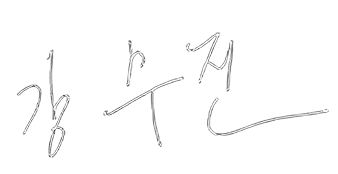
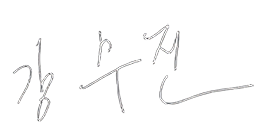
poster 작업 중

diff --git a/sub1.html b/sub1.html
@@ -49,8 +49,11 @@
                                 <p class="content">안녕하세요. 1962년 국립극장에서 창단된 국립발레단은 2022년, 60주년을 맞이하였습니다.</p>
                                 <p class="content">‘나이가 든다는 것은 등산하는 것과 같다. 오르면 오를수록 더 지치고 숨차지만 당신의 시야는 더 넓어진다.' 잉마르 베리만의 말입니다.</p>
                                 <p class="content">이렇듯 국립발레단은 해가 지날수록 국민들의 행복의 가치가 올라갈 수 있는 길이 무엇인가를 찾기 위하여 끊임없이 노력하고 있습니다.</p>
-                                <p class="content">초심의 마음으로 변함없는 열정으로 여러분과 함께 하는 국립발레단이 되겠습니다. 2022년도 국립발레단으로 인하여 행복하시기를 바랍니다.</p>
-                                <p class="content">감사합니다.</p>
+                                <p class="content">
+                                    초심의 마음으로 변함없는 열정으로 여러분과 함께 하는 국립발레단이 되겠습니다. 2022년도 국립발레단으로 인하여 행복하시기를 바랍니다.
+                                    <br>
+                                    감사합니다.
+                                </p>
                             </div>
                         </div>
                         <div class="profile-wrap">
@@ -83,20 +86,20 @@
                             </p>
                         </div>
                         <div class="goto">
-                            <a href="#">
+                            <a href="#" class="goto-a">
                                 더보기
                             </a>
                         </div>
                     </div>
                     <ul class="posters">
-                        <li>
+                        <li class="poster-list">
                             <img src="./images/sub1/work/poster1.jpg" alt="백조의 호수">
                             <img src="./images/sub1/work/poster2.jpg" alt="호두까기인형">
                             <img src="./images/sub1/work/poster3.jpg" alt="라 바야데르">
                             <img src="./images/sub1/work/poster4.jpg" alt="지젤">
                             <img src="./images/sub1/work/poster5.jpg" alt="돈키호테">
                         </li>
-                        <li>
+                        <li class="posters-list">
                             <img src="./images/sub1/work/poster6.jpg" alt="해적">
                             <img src="./images/sub1/work/poster7.jpg" alt="고집쟁이 딸">
                             <img src="./images/sub1/work/poster8.jpg" alt="잠자는 숲속의 미녀">

diff --git a/assets/scss/_sub1.scss b/assets/scss/_sub1.scss
@@ -70,8 +70,52 @@
         }
         .sign-img {
             position: absolute;
-            top: 70%;
-            left: -45%;
+            top: 75%;
+            left: -35%;
+        }
+    }
+}
+
+// sec-work-----------------------------------------------------
+.sec-work {
+    position: relative;
+
+    .txt-goto {
+        @include posXY;
+
+        .txt-wrap {
+            text-align: center;
+    
+            .content {
+                margin-top: 20px;
+            }
+        }
+    
+        .goto {
+            text-align: center;
+            margin-top: 45px;
+    
+            .goto-a {
+                border-radius: 50px;
+                padding: 8px 25px;
+                font-size: 18px;
+                background: $secondary;
+                transition: all 0.2s;
+    
+                &:hover {
+                    font-weight: 700;
+                    color: $secondary;
+                    background: $primaryWhite;
+                }
+            }
+        }
+    }
+
+    .posters {
+        display: flex;
+
+        .poster-list {
+            display: flex;            
         }
     }
 }

diff --git a/assets/css/comm.css b/assets/css/comm.css
@@ -690,8 +690,46 @@ legend {
 }
 .sec-about .pofile-img-wrap .sign-img {
   position: absolute;
-  top: 70%;
-  left: -45%;
+  top: 75%;
+  left: -35%;
+}
+
+.sec-work {
+  position: relative;
+}
+.sec-work .txt-goto {
+  position: absolute;
+  top: 50%;
+  left: 50%;
+  transform: translate(-50%, -50%);
+}
+.sec-work .txt-goto .txt-wrap {
+  text-align: center;
+}
+.sec-work .txt-goto .txt-wrap .content {
+  margin-top: 20px;
+}
+.sec-work .txt-goto .goto {
+  text-align: center;
+  margin-top: 45px;
+}
+.sec-work .txt-goto .goto .goto-a {
+  border-radius: 50px;
+  padding: 8px 25px;
+  font-size: 18px;
+  background: #d92b2b;
+  transition: all 0.2s;
+}
+.sec-work .txt-goto .goto .goto-a:hover {
+  font-weight: 700;
+  color: #d92b2b;
+  background: #fff;
+}
+.sec-work .posters {
+  display: flex;
+}
+.sec-work .posters .poster-list {
+  display: flex;
 }
 
 .main-visual-sub2 {
